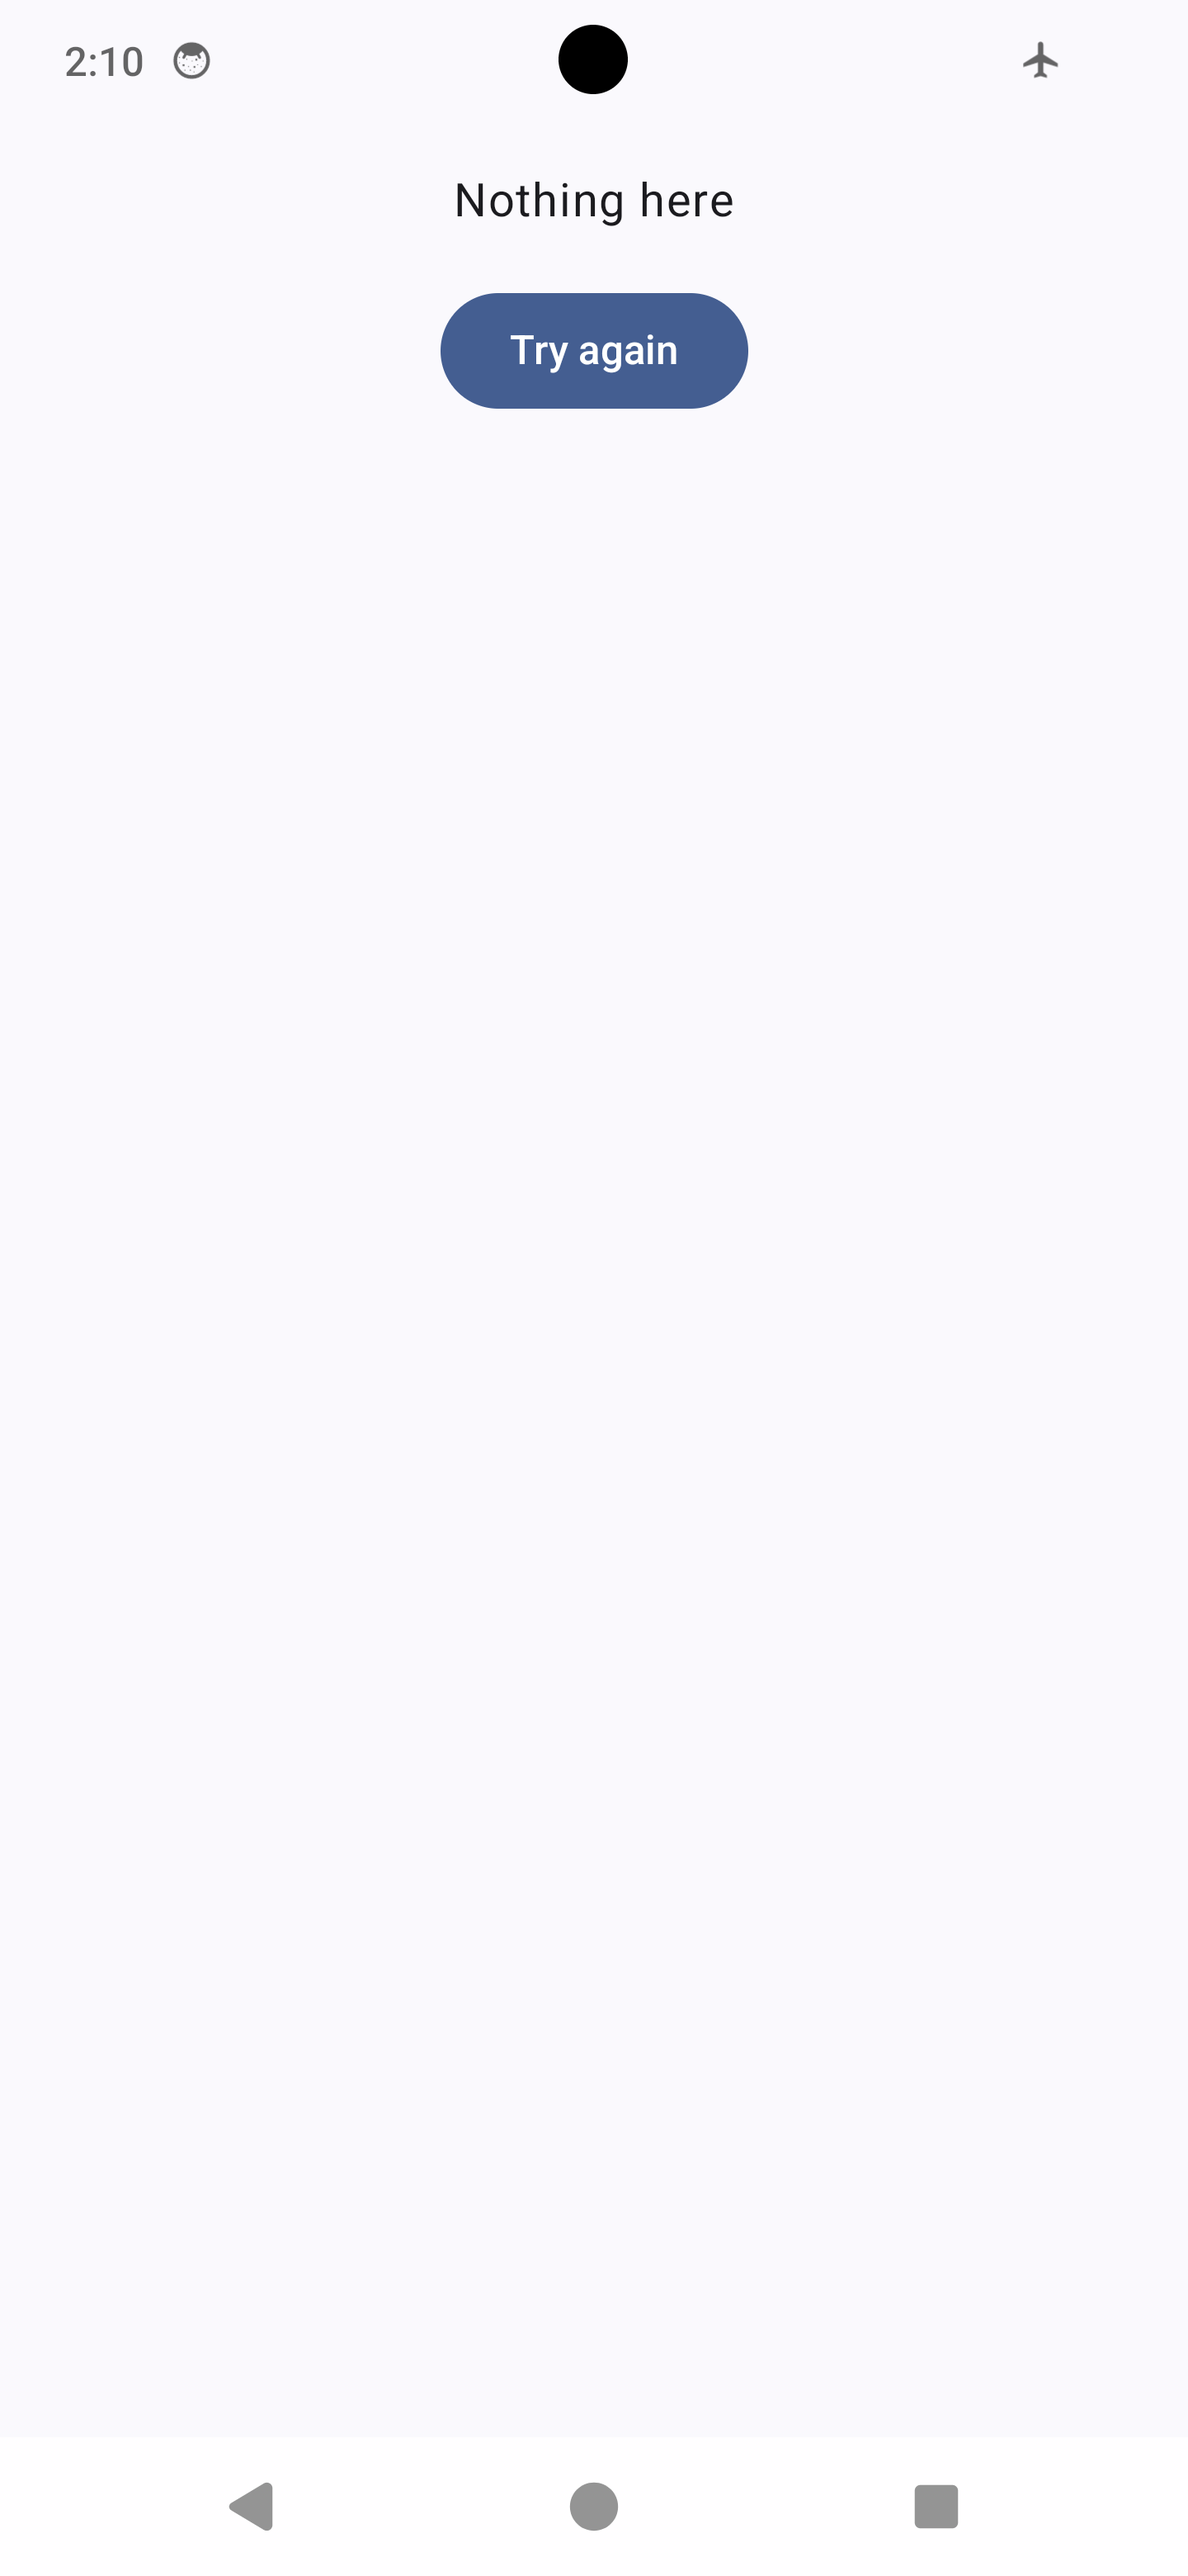
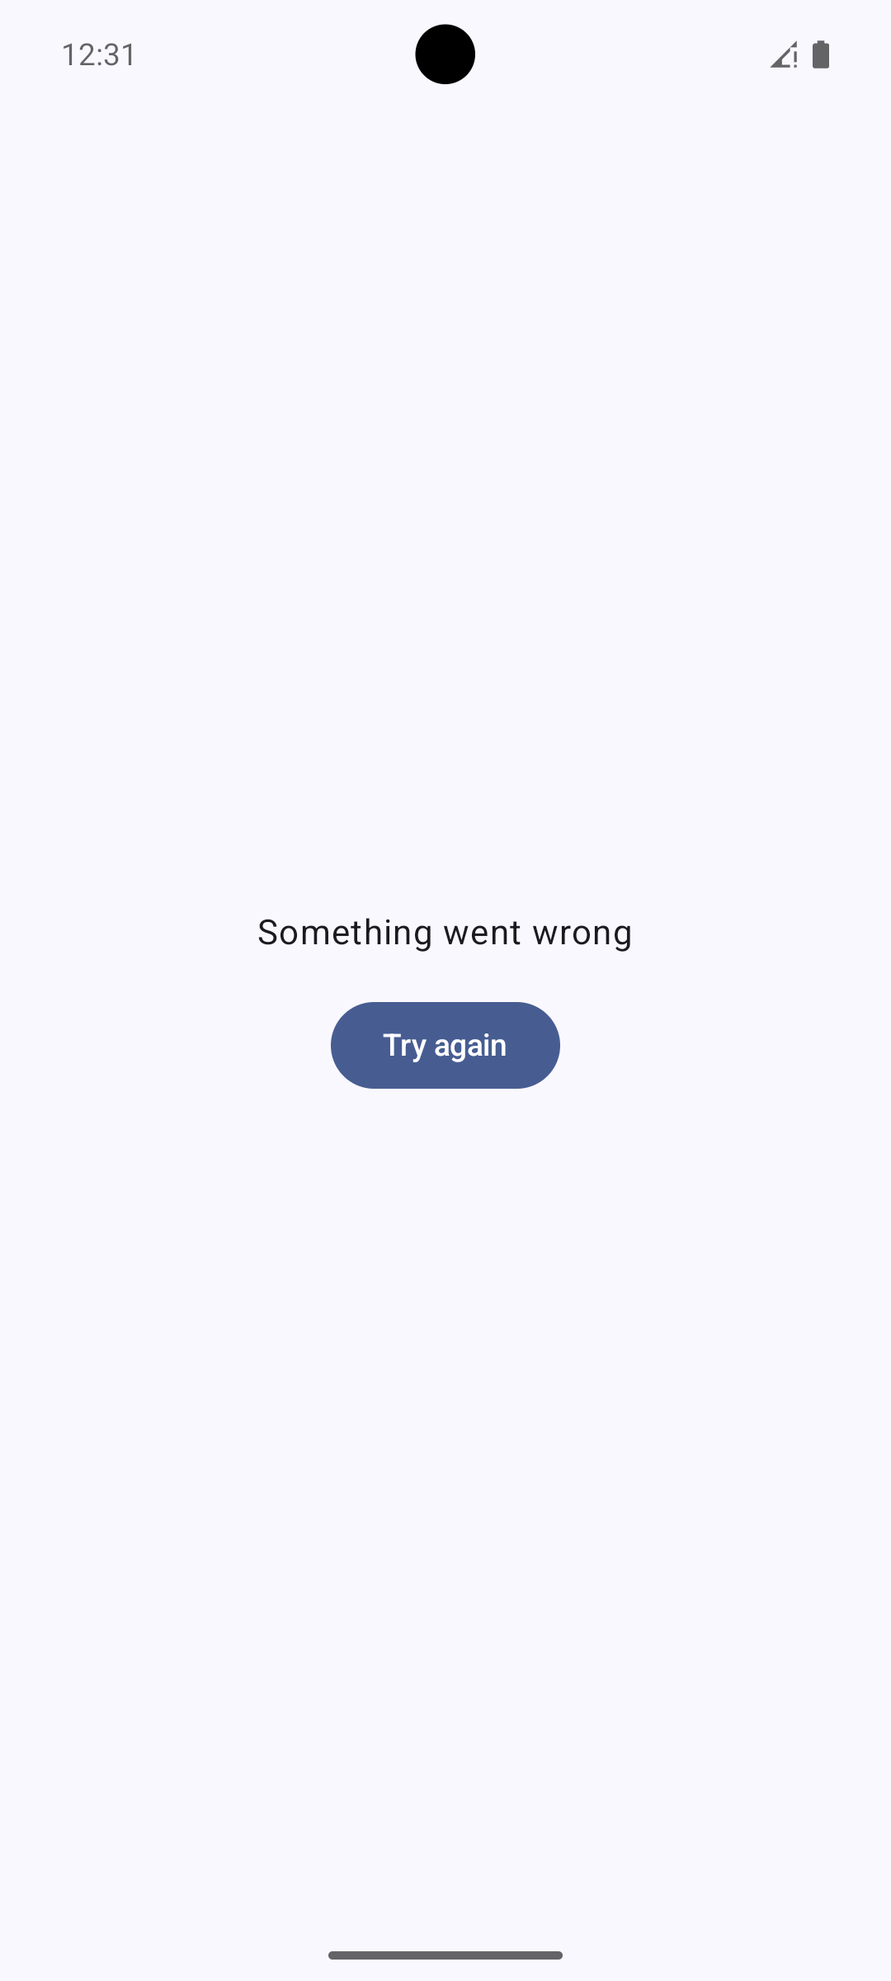
UPDATE AFTER REVIEW (SPARE MY MISERABLE LIFE I'M BEGGING YOU)!!!!

diff --git a/app/src/main/java/com/example/pokedex/NavigationGraph.kt b/app/src/main/java/com/example/pokedex/NavigationGraph.kt
@@ -11,7 +11,7 @@ import androidx.navigation.navigation
 import com.example.pokedex.components.FallbckStates.ErrorComponent
 import com.example.pokedex.components.FallbckStates.LoadingComponent
 import com.example.pokedex.models.LoadingState
-import com.example.pokedex.models.ViewModel
+import com.example.pokedex.models.PokemonViewModel
 import com.example.pokedex.screens.InfoScreen
 import com.example.pokedex.screens.ListScreen
 
@@ -24,23 +24,23 @@ sealed class Screen(val route: String) {
 
 
 fun NavGraphBuilder.pokeApiGraph(
-    navController: NavController, viewModel: ViewModel
+    navController: NavController, pokemonViewModel: PokemonViewModel
 ) {
     navigation(
         startDestination = Screen.List.route, route = "root"
     ) {
 
         composable(Screen.List.route) {
-            val state by viewModel.uiState.collectAsState()
+            val state = pokemonViewModel.uiState
             ListScreen(
                 list = state.pokemonList,
                 open = { i ->
-                    viewModel.fetchPokemon(i)
+                    pokemonViewModel.fetchPokemon(i)
                     navController.navigate(Screen.Details.createRoute(i))
                 },
                 favorites = state.favorites,
-                onRetry = viewModel::fetchMore,
-                onLoadMore = viewModel::fetchMore,
+                onRetry = pokemonViewModel::fetchMore,
+                onLoadMore = pokemonViewModel::fetchMore,
                 loadingState = state.loading
             )
         }
@@ -52,18 +52,18 @@ fun NavGraphBuilder.pokeApiGraph(
                 })
         ) { backStackEntry ->
             val name = backStackEntry.arguments?.getString("name")
-            val state = viewModel.uiState.collectAsState().value
+            val state = pokemonViewModel.uiState
             val pokemon = state.pokemonByName[name]
             if (state.loading == LoadingState.Loading) LoadingComponent()
             else if (state.loading == LoadingState.Error || pokemon == null || name == null) ErrorComponent(
                 onRetry = {
-                    if (name != null) viewModel.fetchPokemon(name)
+                    if (name != null) pokemonViewModel.fetchPokemon(name)
                     else navController.popBackStack()
                 }) else InfoScreen(
                 pokemonInfo = pokemon,
                 favorite = !state.favorites.contains(name),
                 onToggleFavorite = {
-                    viewModel.toggleFavorites(name)
+                    pokemonViewModel.toggleFavorites(name)
                 })
         }
     }

diff --git a/app/src/main/java/com/example/pokedex/models/PokemonViewModel.kt b/app/src/main/java/com/example/pokedex/models/PokemonViewModel.kt
@@ -1,0 +1,81 @@
+package com.example.pokedex.models
+
+import androidx.compose.runtime.getValue
+import androidx.compose.runtime.mutableStateOf
+import androidx.compose.runtime.setValue
+import androidx.lifecycle.ViewModel
+import androidx.lifecycle.viewModelScope
+import kotlinx.coroutines.launch
+
+class PokemonViewModel : ViewModel() {
+    var uiState by mutableStateOf(UiState())
+    private var _pokeAPI: PokeAPIRepository
+
+    init {
+        _pokeAPI = PokeAPIRepository()
+        fetchMore()
+    }
+
+    fun toggleFavorites(name: String) {
+        if (uiState.favorites.contains(name)) {
+            uiState =
+                uiState.copy(favorites = uiState.favorites - setOf(name))
+
+
+        } else {
+            uiState =
+                uiState.copy(favorites = uiState.favorites + setOf(name))
+
+        }
+    }
+
+    fun fetchMore() {
+        viewModelScope.launch {
+            uiState =
+                uiState.copy(loading = LoadingState.Loading)
+
+            try {
+                val listResult = _pokeAPI.list(uiState.pokemonList.size)
+                uiState =
+                    uiState.copy(
+                        loading = LoadingState.Ok,
+                        pokemonList = uiState.pokemonList + listResult.results
+                    )
+
+            } catch (e: Exception) {
+                e.printStackTrace()
+                uiState =
+                    uiState.copy(
+                        loading = LoadingState.Error,
+                    )
+
+
+            }
+        }
+    }
+
+    fun fetchPokemon(name: String) {
+        viewModelScope.launch {
+            uiState =
+                uiState.copy(loading = LoadingState.Loading)
+
+            try {
+                val result = _pokeAPI.getPokemon(name)
+                uiState =
+                    uiState.copy(
+                        loading = LoadingState.Ok,
+                        pokemonByName = uiState.pokemonByName + mapOf(Pair(name, result)),
+                    )
+
+            } catch (e: Exception) {
+                e.printStackTrace()
+                uiState =
+                    uiState.copy(
+                        loading = LoadingState.Error,
+                    )
+
+
+            }
+        }
+    }
+}

diff --git a/app/src/main/java/com/example/pokedex/models/PokeAPI.kt b/app/src/main/java/com/example/pokedex/models/PokeAPI.kt
@@ -201,21 +201,32 @@ data class TypeName(
 )
 
 
-class PokeAPIService {
-    private val BASE_URL =
-        "https://pokeapi.co/api/v2/"
+class PokeAPIRepository {
+    lateinit var pokeAPI: PokeAPI
+    init {
+        val BASE_URL =
+            "https://pokeapi.co/api/v2/"
 
-    private val client: OkHttpClient
-        get() {
-            val logging = HttpLoggingInterceptor()
+
+            val logging = HttpLoggingInterceptor();
             logging.setLevel(HttpLoggingInterceptor.Level.BODY)
             val client: OkHttpClient = OkHttpClient.Builder().addInterceptor(logging).build()
-            return client
-        }
-    private val retrofit = Retrofit.Builder()
-        .addConverterFactory(Json.asConverterFactory("application/json".toMediaType()))
-        .baseUrl(BASE_URL).client(client).build()
-    val pokeAPISerivce: PokeAPI = retrofit.create<PokeAPI>()
+
+
+         val json = Json { ignoreUnknownKeys = true }
+         val retrofit = Retrofit.Builder()
+            .addConverterFactory(json.asConverterFactory("application/json".toMediaType()))
+            .baseUrl(BASE_URL).client(client).build()
+         pokeAPI = retrofit.create<PokeAPI>()
+    }
+
+    suspend fun list(offset: Int): PokeList {
+        return pokeAPI.list(offset, 100)
+    }
+
+    suspend fun getPokemon(name: String): PokemonInfo {
+        return pokeAPI.getPokemon(name)
+    }
 }
 
 interface PokeAPI {

diff --git a/app/src/main/java/com/example/pokedex/MainActivity.kt b/app/src/main/java/com/example/pokedex/MainActivity.kt
@@ -13,7 +13,7 @@ import androidx.compose.ui.Modifier
 import androidx.lifecycle.viewmodel.compose.viewModel
 import androidx.navigation.compose.NavHost
 import androidx.navigation.compose.rememberNavController
-import com.example.pokedex.models.ViewModel
+import com.example.pokedex.models.PokemonViewModel
 import com.example.pokedex.ui.theme.PokeDexTheme
 
 class MainActivity : ComponentActivity() {
@@ -37,7 +37,7 @@ class MainActivity : ComponentActivity() {
 
 @Composable
 fun App(
-    viewModel: ViewModel = viewModel()
+    pokemonViewModel: PokemonViewModel = viewModel()
 ) {
     val navController = rememberNavController()
     NavHost(
@@ -46,7 +46,7 @@ fun App(
     ) {
         pokeApiGraph(
             navController = navController,
-            viewModel = viewModel
+            pokemonViewModel = pokemonViewModel
         )
     }
 }

diff --git a/app/src/main/java/com/example/pokedex/components/FallbckStates/ErrorComponent.kt b/app/src/main/java/com/example/pokedex/components/FallbckStates/ErrorComponent.kt
@@ -23,6 +23,7 @@ fun ErrorComponent(
         horizontalAlignment = Alignment.CenterHorizontally,
         verticalArrangement = Arrangement.Center
     ) {
+        Text("Something went wrong")
         Button(
             onClick = onRetry, modifier = Modifier.padding(16.dp)
         ) {
